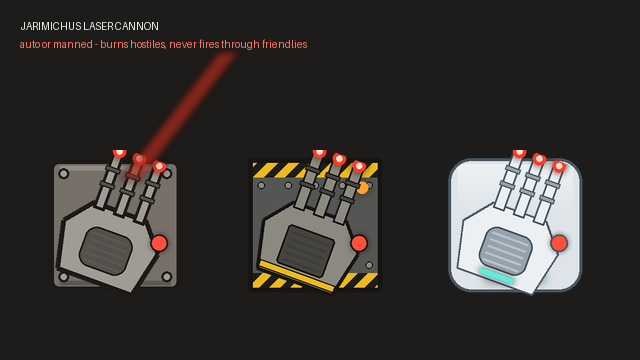
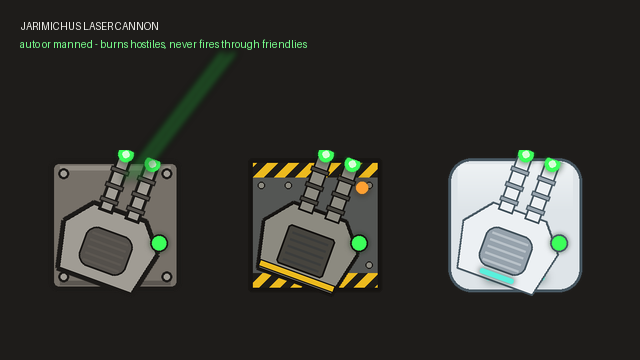
Laser cannon: twin barrels and green beams
Two thin green beams that pulse independently (green in every art style) from a new
twin-barrelled turret head with green lenses and sensor; descriptions updated.

Claude-Session: https://claude.ai/code/session_01RPUcRCaJ5HrcRVLy6MDcDw

diff --git a/Tools/generate_art.py b/Tools/generate_art.py
@@ -151,26 +151,27 @@ def beam_glow():
 
 
 def top(st):
-    """Heavy trigun turret head: three long barrels with red lenses, an armoured shroud and a targeting sensor."""
+    """Heavy twin-barrelled turret head: two long barrels with green lenses, an armoured shroud and a targeting sensor."""
     img = blank(); d = ImageDraw.Draw(img); o = rgba(st["outline"]); ow = max(3, st["ow"] - 2)
     sharp = st["deco"] in ("vents", "engrave", "hazard")
     r = 6 if sharp else 20
+    green_hot, green_core = (60, 255, 90, 255), (215, 255, 215, 255)
     # armoured shroud
     d.polygon([(60, 230), (196, 230), (214, 150), (176, 104), (80, 104), (42, 150)], fill=rgba(st["metal"]), outline=o)
     d.line([(60, 230), (196, 230), (214, 150), (176, 104), (80, 104), (42, 150), (60, 230)], fill=o, width=ow)
     d.rounded_rectangle([86, 140, 170, 210], radius=r, fill=rgba(st["metal_dark"]), outline=o, width=3)
     for y in range(152, 206, 12):
         d.line([(96, y), (160, y)], fill=rgba(st["plate_lo"]), width=4)
-    # long barrels
-    for bx in (92, 128, 164):
-        d.rectangle([bx - 10, 8, bx + 10, 112], fill=rgba(st["metal"]), outline=o, width=max(3, ow - 3))
-        for y in (36, 64):
-            d.rectangle([bx - 13, y, bx + 13, y + 8], fill=rgba(st["metal_dark"]), outline=o, width=2)
-        heat = blank(); ImageDraw.Draw(heat).ellipse([bx - 11, -4, bx + 11, 18], fill=(255, 60, 40, 255))
+    # twin long barrels, a little thicker than the mining laser's
+    for bx in (104, 152):
+        d.rectangle([bx - 13, 8, bx + 13, 112], fill=rgba(st["metal"]), outline=o, width=max(3, ow - 3))
+        for y in (34, 62, 88):
+            d.rectangle([bx - 16, y, bx + 16, y + 8], fill=rgba(st["metal_dark"]), outline=o, width=2)
+        heat = blank(); ImageDraw.Draw(heat).ellipse([bx - 13, -5, bx + 13, 21], fill=green_hot)
         img.alpha_composite(glow_layer(heat, 6))
-        d.ellipse([bx - 5, 2, bx + 5, 12], fill=(255, 225, 215, 255))
+        d.ellipse([bx - 6, 2, bx + 6, 14], fill=green_core)
     # targeting sensor
-    sensor = blank(); ImageDraw.Draw(sensor).ellipse([196, 118, 222, 144], fill=(255, 80, 60, 255))
+    sensor = blank(); ImageDraw.Draw(sensor).ellipse([196, 118, 222, 144], fill=green_hot)
     img.alpha_composite(glow_layer(sensor, 5))
     d.ellipse([194, 116, 224, 146], outline=o, width=3)
     if st["deco"] == "hazard":
@@ -205,11 +206,11 @@ def preview():
         t = base(st, NODE); t.alpha_composite(top(st).rotate(-20, resample=Image.BICUBIC))
         img.alpha_composite(t.resize((150, 150), Image.LANCZOS), (40 + i * 200, 150))
     beams = Image.new("RGBA", (w, h), (0, 0, 0, 0)); bd = ImageDraw.Draw(beams)
-    for dx in (-8, 0, 8):
-        bd.line([(130 + dx, 180), (230 + dx, 50)], fill=(255, 60, 40, 255), width=4)
+    for dx in (-6, 6):
+        bd.line([(130 + dx, 180), (230 + dx, 50)], fill=(60, 255, 90, 255), width=4)
     img.alpha_composite(beams.filter(ImageFilter.GaussianBlur(4)))
     d.text((20, 20), "JARIMICHUS LASER CANNON", fill=(240, 240, 235, 255))
-    d.text((20, 38), "auto or manned - burns hostiles, never fires through friendlies", fill=(255, 120, 100, 255))
+    d.text((20, 38), "auto or manned - burns hostiles, never fires through friendlies", fill=(120, 255, 140, 255))
     return img.convert("RGB")
 
 

diff --git a/Source/JarimichusLaserCannon/Shared/TwinBeamRenderer.cs b/Source/JarimichusLaserCannon/Shared/TwinBeamRenderer.cs
@@ -5,20 +5,20 @@ using Verse;
 namespace JarimichusLaserCannon
 {
     /// <summary>
-    /// Draws the trigun's three thin red beams from its three barrels, converging on a point. Each pulses on its own
-    /// rhythm but never fades out. Red in every art style.
+    /// Draws the cannon's two thin green beams from its two barrels, converging on a point. Each pulses on its own
+    /// rhythm but never fades out. Green in every art style.
     /// </summary>
     [StaticConstructorOnStartup]
-    public static class TrigunRenderer
+    public static class TwinBeamRenderer
     {
         private static readonly Material Core = MaterialPool.MatFrom("JarimichusLaserCannon/Effects/BeamCore", ShaderDatabase.Transparent);
         private static readonly Material Glow = MaterialPool.MatFrom("JarimichusLaserCannon/Effects/BeamGlow", ShaderDatabase.MoteGlow);
         private static readonly MaterialPropertyBlock Block = new MaterialPropertyBlock();
         private static readonly int ColorId = Shader.PropertyToID("_Color");
-        private static readonly Color CoreColor = new Color(1f, 0.55f, 0.48f);
-        private static readonly Color GlowColor = new Color(1f, 0.16f, 0.10f);
-        private static readonly float[] BarrelOffsets = { -0.17f, 0f, 0.17f };
-        private static readonly float[] EndOffsets = { -0.06f, 0f, 0.06f };
+        private static readonly Color CoreColor = new Color(0.62f, 1f, 0.62f);
+        private static readonly Color GlowColor = new Color(0.15f, 1f, 0.28f);
+        private static readonly float[] BarrelOffsets = { -0.12f, 0.12f };
+        private static readonly float[] EndOffsets = { -0.04f, 0.04f };
 
         /// <param name="from">The turret's centre.</param>
         /// <param name="to">The point the beams converge on.</param>
@@ -34,7 +34,7 @@ namespace JarimichusLaserCannon
             float frac = Mathf.Clamp01(watts / 2000f);
             double time = Time.realtimeSinceStartup;
 
-            for (int i = 0; i < 3; i++)
+            for (int i = 0; i < BarrelOffsets.Length; i++)
             {
                 float pulse = LaserMath.Pulse(time, i, seed);
                 Vector3 a = from + dir * muzzle + side * BarrelOffsets[i];

diff --git a/Source/JarimichusLaserCannon/CompLaserCannon.cs b/Source/JarimichusLaserCannon/CompLaserCannon.cs
@@ -29,7 +29,7 @@ namespace JarimichusLaserCannon
     }
 
     /// <summary>
-    /// The laser cannon: an automatic turret that locks three continuous red beams onto the nearest hostile it can
+    /// The laser cannon: an automatic turret that locks two continuous green beams onto the nearest hostile it can
     /// see, burning it. It holds fire while anyone non-hostile stands on the line of fire. A colonist manning it
     /// adds range and damage. It runs on its power grid; with Jarimichus Beamwire installed, beams power it first.
     /// </summary>

diff --git a/Source/JarimichusLaserCannon/Building.cs b/Source/JarimichusLaserCannon/Building.cs
@@ -28,7 +28,7 @@ namespace JarimichusLaserCannon
 
             if (Cannon != null && Cannon.Firing && Cannon.Target != null)
             {
-                TrigunRenderer.Draw(Position.ToVector3Shifted(), Cannon.Target.DrawPos, Cannon.TotalWatts, thingIDNumber, 0.15f, 0.48f);
+                TwinBeamRenderer.Draw(Position.ToVector3Shifted(), Cannon.Target.DrawPos, Cannon.TotalWatts, thingIDNumber, 0.15f, 0.48f);
             }
         }
 

diff --git a/README.md b/README.md
@@ -2,10 +2,10 @@
 
 *Part of the Jarimichus mod series, with [Jarimichus Beamwire](https://github.com/jarimichu/beamwire) and [Jarimichus Mining Laser](https://github.com/jarimichu/mining-laser).*
 
-A three-barrelled defensive laser turret for RimWorld 1.4, 1.5 and 1.6.
+A twin-barrelled defensive laser turret for RimWorld 1.4, 1.5 and 1.6.
 
 - **Targeting:** it picks the nearest hostile pawn it can see within 26 tiles, along the same straight-line rules as the mining laser. Hostile animals are targeted too, unless you turn that off in the settings.
-- **Burning:** three continuous red beams pulse independently. Each pulse (every 30 ticks) deals 9 damage per kW, with armour penetration growing with power and a 6% chance to set the target alight.
+- **Burning:** two continuous green beams pulse independently. Each pulse (every 30 ticks) deals 9 damage per kW, with armour penetration growing with power and a 6% chance to set the target alight.
 - **Friendly fire:** it **holds fire** while any non-hostile pawn (colonist, ally, guest, prisoner, tame animal) is on the line of fire.
 - **Manning:** right-click with a colonist to **man** it, for +6 range and ×1.5 damage. Violent work must be enabled. It also fires on its own.
 - **Controls:** force target, clear target and hold fire. Selecting it shows its range ring.
